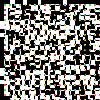
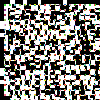
Updated canada.pymy1.png .

diff --git a/canada.py b/canada.py
@@ -30,7 +30,7 @@ img.save('my.png')
 moverPieza(outp,18,1,0,0)
 moverPieza(outp,0,16,0,11)
 moverPieza(outp,1,4,0,9)
-moverPieza(outp,1,9,0,18)
+moverPieza(outp,1,9,0,5)
 moverPieza(outp,2,8,0,4)
 moverPieza(outp,3,0,0,17)
 moverPieza(outp,4,7,0,3)
@@ -43,7 +43,7 @@ moverPieza(outp,12,16,0,7)
 moverPieza(outp,13,6,0,14)
 moverPieza(outp,15,5,0,15)
 moverPieza(outp,16,5,0,2)
-moverPieza(outp,17,4,0,5)
+moverPieza(outp,17,4,0,18)
 moverPieza(outp,17,12,0,6)
 moverPieza(outp,18,10,0,13)
 moverPieza(outp,19,17,0,19)
